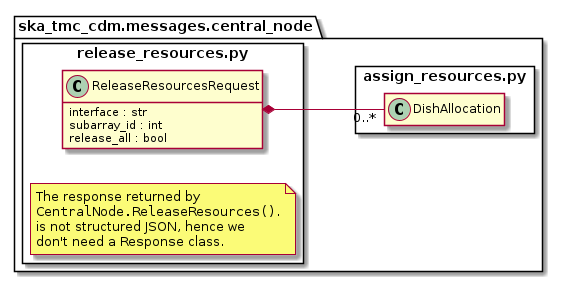
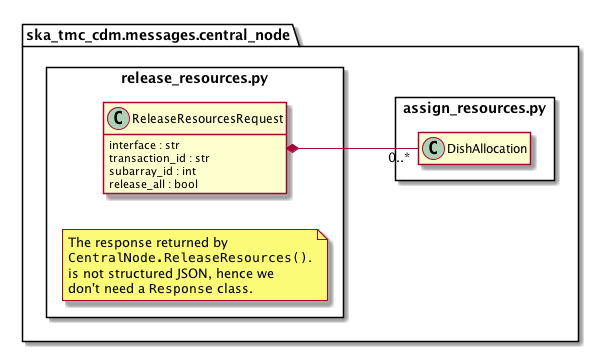
AT2-855 update release_resources docs

diff --git a/docs/src/developer/centralnode/centralnode.rst b/docs/src/developer/centralnode/centralnode.rst
@@ -145,10 +145,10 @@ from a sub-array:
 .. code-block:: JSON
 
   {
-    "subarrayID": 1,
-    "dish": {
-      "receptorIDList": ["0001", "0002"]
-    }
+    "interface": "https://schema.skao.int/ska-tmc-releaseresources/2.0",
+    "transaction_id": "txn-mvp01-20200325-00001",
+    "subarray_id": 1, 
+    "receptor_ids": ["0001", "0002"]
   }
 
 Example JSON that requests all sub-array resources be released:
@@ -156,8 +156,10 @@ Example JSON that requests all sub-array resources be released:
 .. code-block:: JSON
 
   {
-    "subarrayID": 1,
-    "releaseALL": true
+    "interface": "https://schema.skao.int/ska-tmc-releaseresources/2.0",
+    "transaction_id": "txn-mvp01-20200325-00001",
+    "subarray_id": 1,
+    "release_all": true
   }
 
 Example JSON that requests all sub-array resources be released for LOW:
